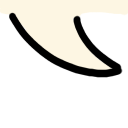
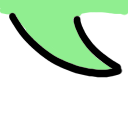
Change reply color

Changed region(s): [[0.0, 0.0, 1.0, 0.5625]]

diff --git a/next-app/src/components/comments/replied_comment.tsx b/next-app/src/components/comments/replied_comment.tsx
@@ -129,6 +129,9 @@ export const RepliedComment = ({ comment }: RepliedCommentProps) => {
             duration: 1,
           }}
           className={`${styles.commentBox}`}
+          style={{
+            backgroundColor: "#90ee90",
+          }}
         >
           <div className="text-end whitespace-pre-line">
             <ContentSection content={comment.content} />
